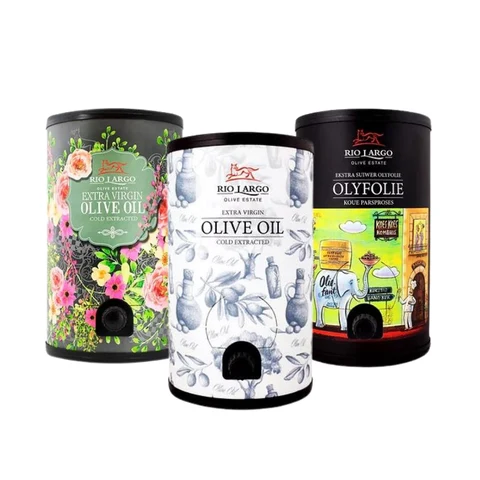
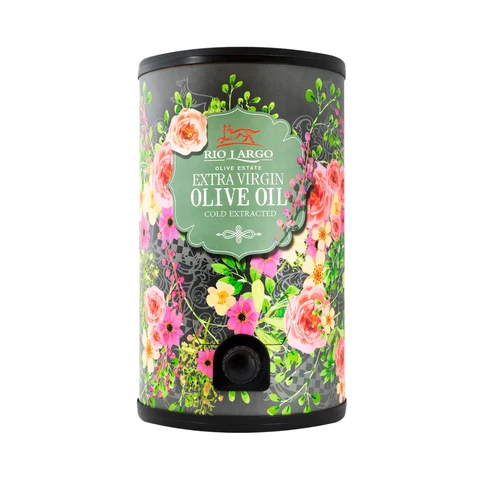
feat: mobile audit, real single-bottle photos, twilight hero, Home link
Mobile audit run via Playwright on iPhone 14 Pro viewport uncovered
two issues: all three bottle photos were group shots (catalogue-
style) from the parent-site scrape, and the original golden-hour
hero made white text fight amber pixels.

CHANGES
- public/images/bottle-{500ml,1l,2l}-{480,800}w.webp — replaced
  group shots with real single-bottle product photography from
  riolargo.co.za product category pages (Botanical 500ml,
  Botanicals 1L, Floral Design 2L). Each shows the fox emblem and
  visible twist tap.
- public/images/hero-twilight-{768,1280,1920}w.webp — new dark
  twilight Breede River Valley hero generated via Imagen 4. The
  image is intrinsically dark (bottom two thirds in deep shadow)
  so white text is legible without panels or heavy shadows.
- app/page.js — hero headline rewritten: "Pressed this year. Not
  last." with italic inline accent, text-balance wrapping, smaller
  min font (clamp 40->84) so mobile fits without manual br.
  Stronger bottom gradient as backup. Removed the fynbos accent
  colours from the hero headline (fynbos washed against amber sky).
- components/Navbar.js — added explicit "Home" nav link as the
  first item, so users have an obvious way back from any page.
- scripts/screenshot-mobile.mjs — Playwright script that captures
  viewport-sized mobile screenshots of every page, scrolling top
  to bottom. Used for the audit and re-runnable for future checks.
- .gitignore — exclude audit/ output and public/images/source/
[…]

diff --git a/app/page.js b/app/page.js
@@ -44,51 +44,45 @@ export default function Home() {
       {/* ============ HERO ============ */}
       <section className="relative isolate min-h-[88vh] flex items-end overflow-hidden">
         <Image
-          src="/images/hero-breede-valley-1920w.webp"
-          alt="Olive estate at golden hour in South Africa's Breede River Valley, with rows of silver-green olive trees stretching toward distant Cape mountains"
+          src="/images/hero-twilight-1920w.webp"
+          alt="Olive grove in South Africa's Breede River Valley at twilight, silhouetted against a dusk sky over the Cape mountains"
           fill
           priority
           sizes="100vw"
           className="object-cover -z-10"
         />
-        {/* Bottom-up scrim — guarantees text legibility regardless of image */}
+        {/* Strong overlay — guarantees white text legibility */}
         <div
           className="absolute inset-0 -z-10"
           style={{
             background:
-              'linear-gradient(180deg, rgba(12,15,10,0.35) 0%, rgba(12,15,10,0.10) 25%, rgba(12,15,10,0.60) 60%, rgba(12,15,10,0.92) 100%)',
-          }}
-          aria-hidden="true"
-        />
-        {/* Left vignette — extra contrast under the headline */}
-        <div
-          className="absolute inset-0 -z-10"
-          style={{
-            background:
-              'linear-gradient(90deg, rgba(12,15,10,0.55) 0%, rgba(12,15,10,0.25) 40%, rgba(12,15,10,0.0) 70%)',
+              'linear-gradient(180deg, rgba(12,15,10,0.45) 0%, rgba(12,15,10,0.30) 30%, rgba(12,15,10,0.80) 75%, rgba(12,15,10,0.95) 100%)',
           }}
           aria-hidden="true"
         />
 
-        <div className="container-x relative pb-20 md:pb-28 pt-32 text-limestone-50">
-          <p className="eyebrow !text-fynbos-400 mb-6 drop-shadow-[0_1px_8px_rgba(12,15,10,0.6)]">
+        <div className="container-x relative pb-20 md:pb-28 pt-32 w-full text-limestone-50">
+          <p className="eyebrow !text-limestone-50 mb-6">
             From the Breede River Valley &middot; est. 2010
           </p>
-          <h1 className="font-display text-display font-bold max-w-4xl text-balance leading-[1.05] mb-8 drop-shadow-[0_2px_24px_rgba(12,15,10,0.55)]">
-            Fresh from the southern harvest.<br/>
-            <span className="text-fynbos-400">On UK tables</span> before the northern oils are bottled.
+          <h1 className="font-display font-bold leading-[0.98] tracking-tight max-w-3xl mb-8 text-limestone-50 text-[clamp(40px,7vw,84px)] text-balance">
+            Pressed this year.{' '}
+            <em className="italic font-normal text-limestone-50">Not last.</em>
           </h1>
-          <p className="text-lg md:text-xl text-limestone-50/95 max-w-2xl leading-relaxed mb-10 drop-shadow-[0_1px_12px_rgba(12,15,10,0.6)]">
-            Hand-picked, cold-pressed extra virgin olive oil from South Africa&rsquo;s
-            Breede River Valley. Gold medals in eight countries. One harvest a year &mdash; ours,
-            arriving when yours is six months old.
+          <p className="text-lg md:text-xl text-limestone-50 max-w-xl leading-relaxed mb-10">
+            Northern olive oils on UK shelves are six to twelve months old by midwinter.
+            Rio Largo&rsquo;s southern hemisphere harvest means fresh-pressed oil arrives
+            exactly when theirs is stale.
           </p>
-          <div className="flex flex-wrap gap-4">
+          <div className="flex flex-wrap gap-3">
             <Link href="/shop" className="btn-primary">
               Shop the Oil
               <ArrowRight size={18} strokeWidth={1.5} className="ml-2" />
             </Link>
-            <Link href="#advantage" className="btn-secondary !border-limestone-50 !text-limestone-50 hover:!bg-limestone-50 hover:!text-mountain-900">
+            <Link
+              href="#advantage"
+              className="btn-secondary !border-limestone-50/50 !text-limestone-50 hover:!bg-limestone-50 hover:!text-mountain-900"
+            >
               Why Fresher
             </Link>
           </div>

diff --git a/components/Navbar.js b/components/Navbar.js
@@ -4,6 +4,7 @@ import { useState, useEffect } from 'react'
 import { Menu, X } from 'lucide-react'
 
 const NAV_LINKS = [
+  { href: '/',               label: 'Home' },
   { href: '/shop',           label: 'Shop' },
   { href: '/#advantage',     label: 'The Advantage' },
   { href: '/#story',         label: 'Our Story' },
